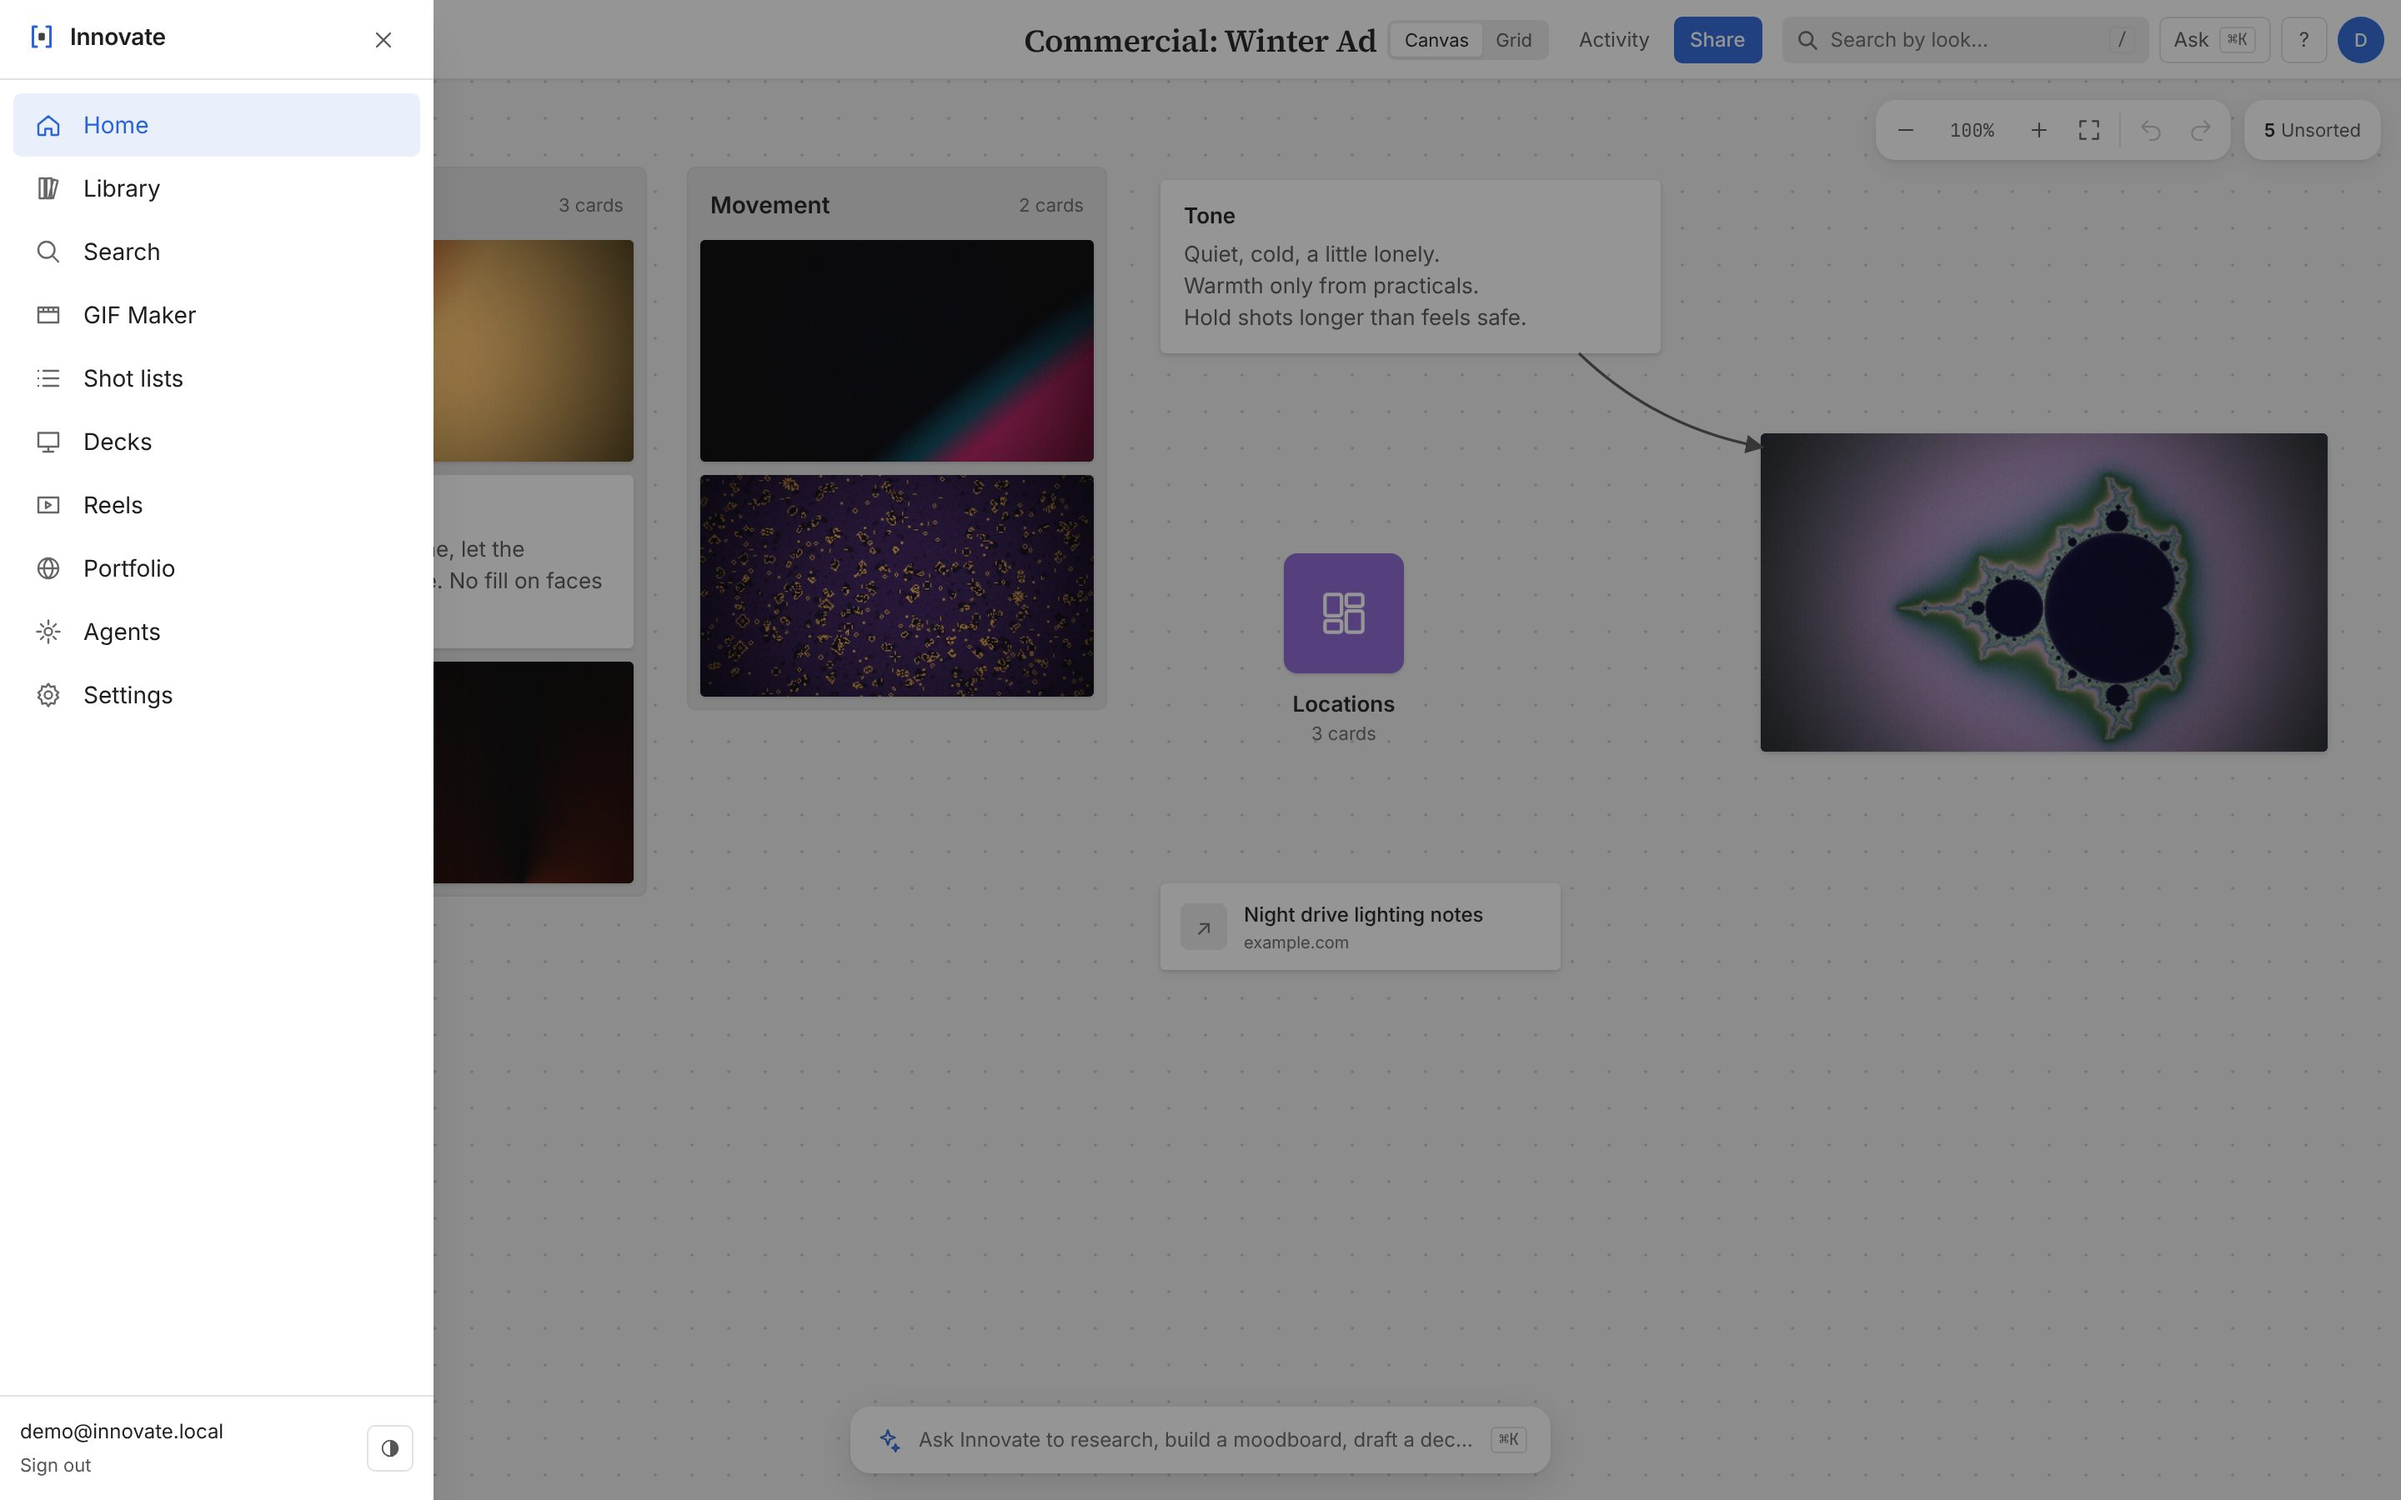
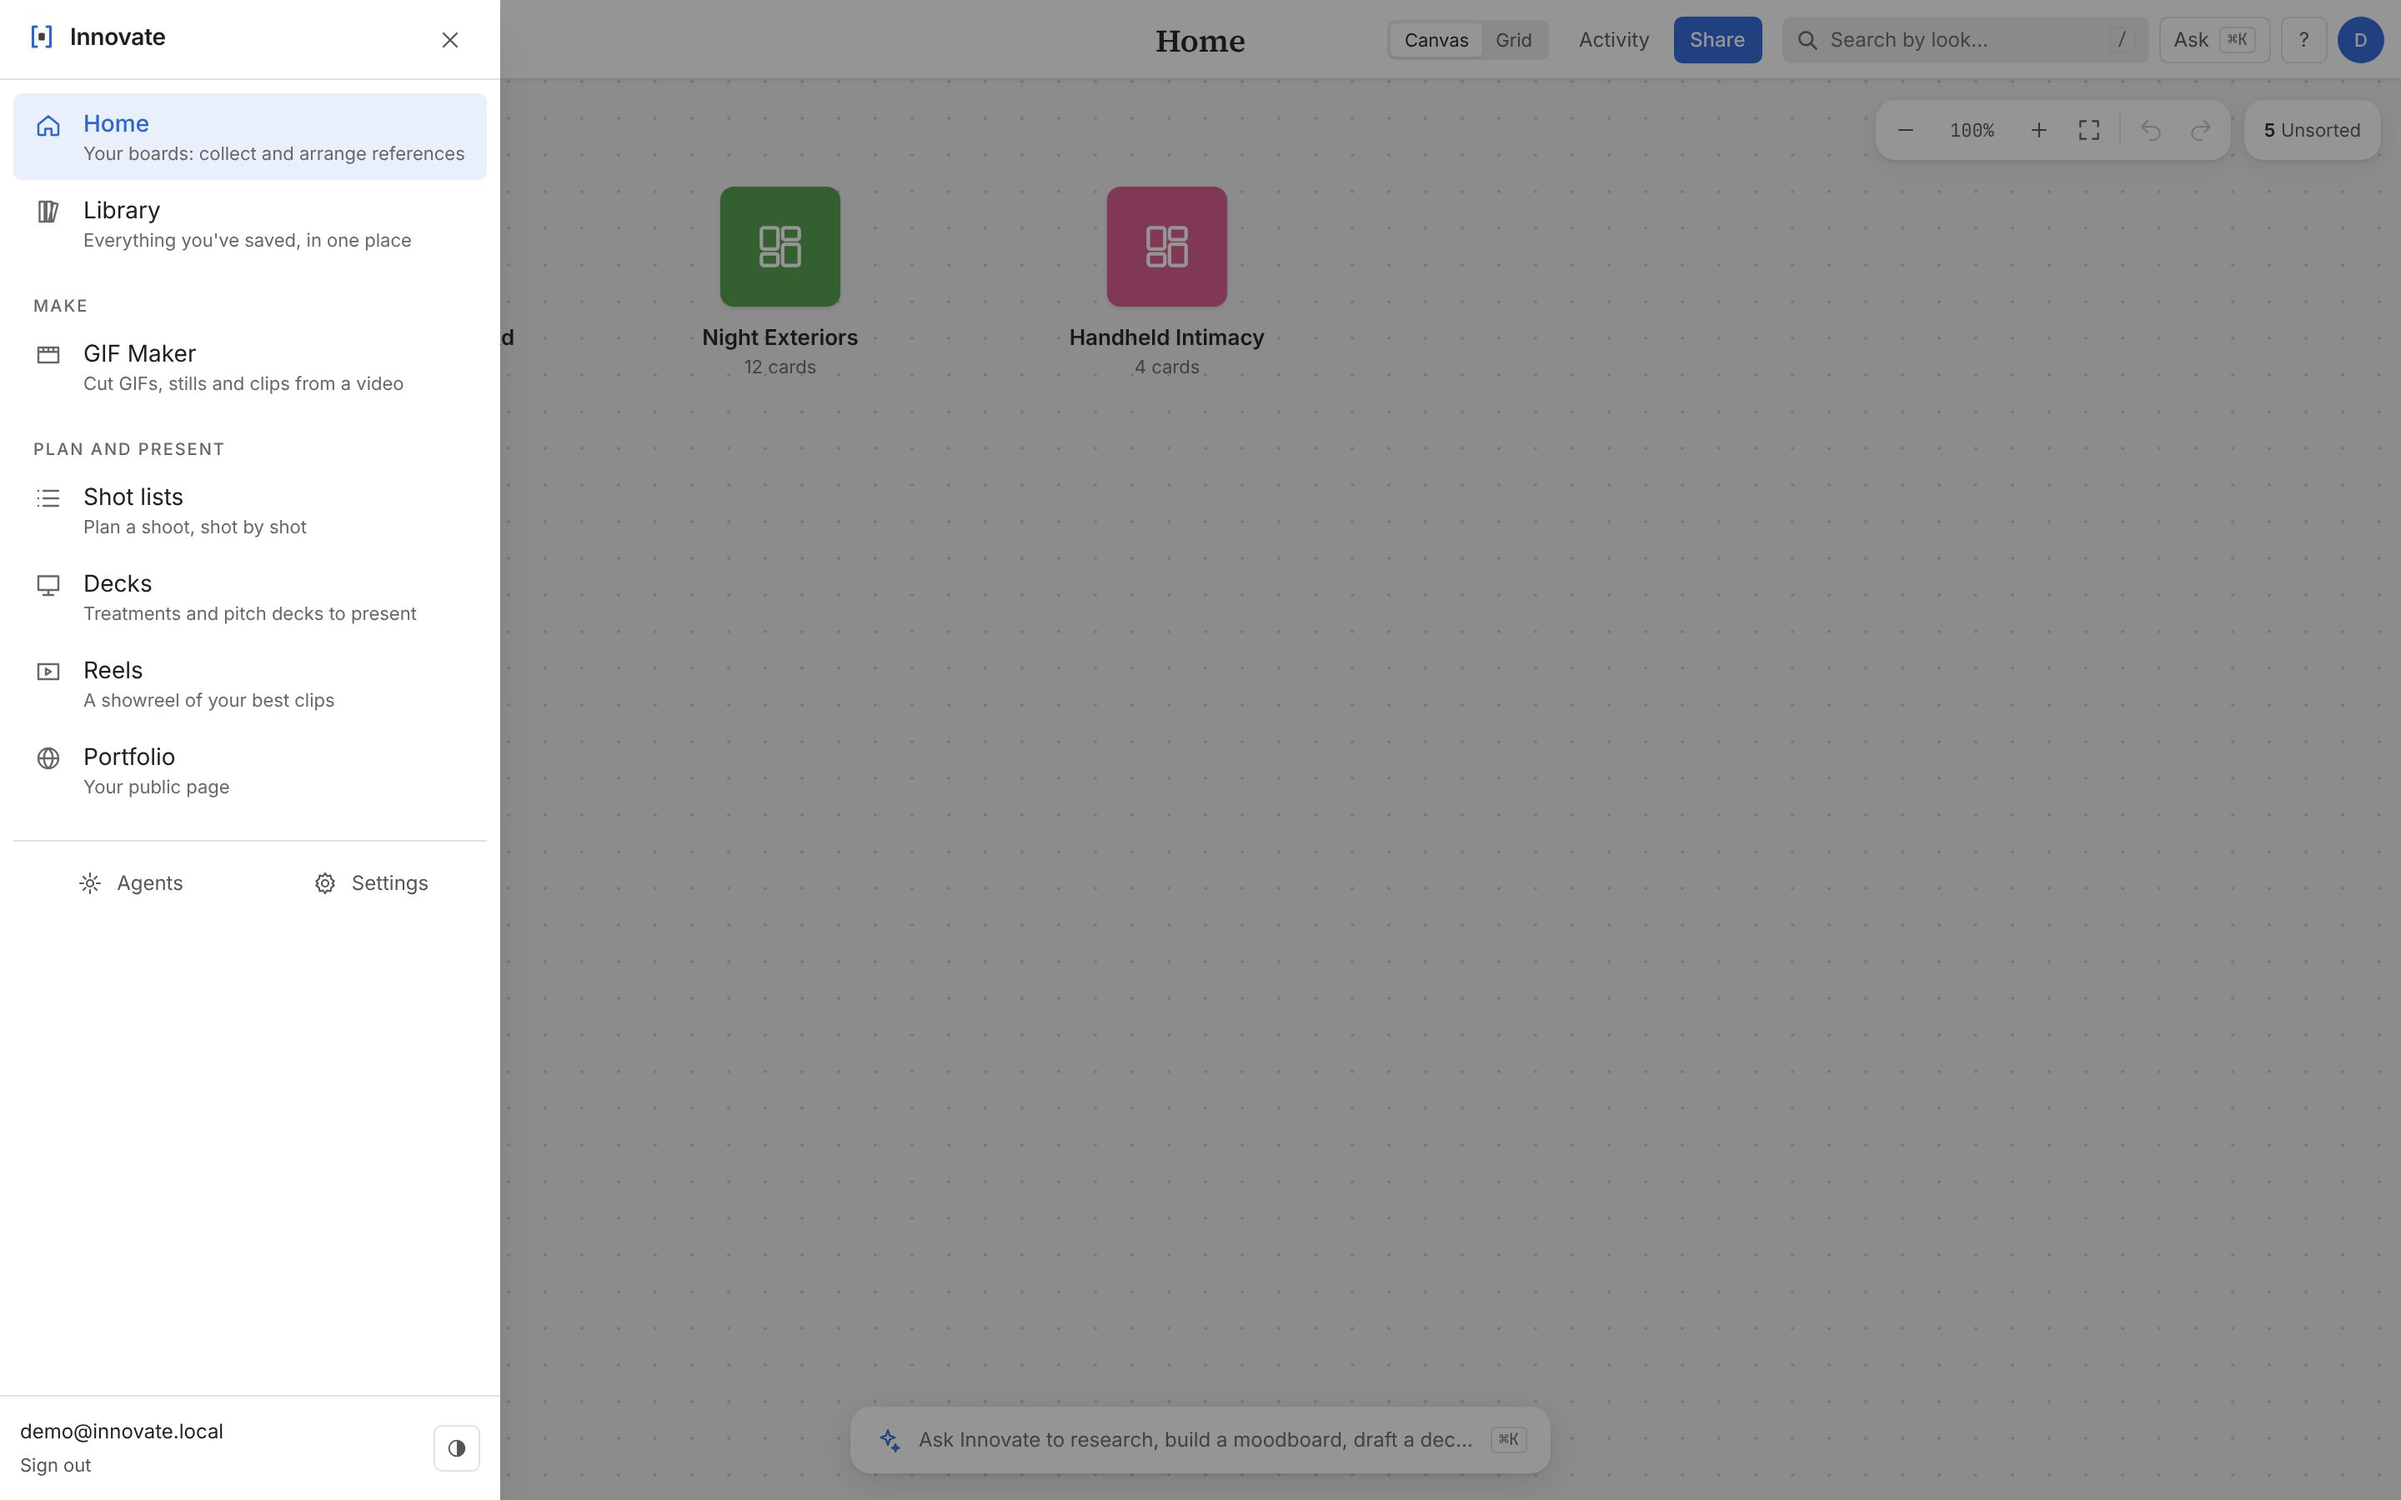
Innovate: explain each section in the menu
The menu drawer now groups sections by what they're for (your boards and
library; Make; Plan and present) and gives each a one-line description.
Search left the menu (it's in the top bar); Agents and Settings moved to a
small footer row.

Claude-Session: https://claude.ai/code/session_01D2mtqCz3z1ammiFNoeLEXk

diff --git a/innovate/apps/web/components/shell/AppShell.tsx b/innovate/apps/web/components/shell/AppShell.tsx
@@ -9,18 +9,33 @@ import { HeaderSearch } from "./HeaderSearch";
 import { ShortcutsButton } from "./ShortcutsOverlay";
 import { ThemeToggle } from "./ThemeToggle";
 
-const SECTIONS: { href: string; label: string; icon: string }[] = [
-  { href: "/", label: "Home", icon: "M4 11.5 12 5l8 6.5V19a1 1 0 0 1-1 1h-4.5v-5h-5v5H5a1 1 0 0 1-1-1z" },
-  { href: "/library", label: "Library", icon: "M5 4h4v16H5zM10.5 4h4v16h-4zM16 5l3.5.9-3.6 14-3.4-.9z" },
-  { href: "/search", label: "Search", icon: "M10.5 4a6.5 6.5 0 1 1 0 13 6.5 6.5 0 0 1 0-13zM15.5 15.5 20 20" },
-  { href: "/make", label: "GIF Maker", icon: "M4 6h16v12H4zM4 9.5h16M8 6v3.5M12 6v3.5M16 6v3.5" },
-  { href: "/shotlists", label: "Shot lists", icon: "M8 6h12M8 12h12M8 18h12M4 6h.01M4 12h.01M4 18h.01" },
-  { href: "/decks", label: "Decks", icon: "M4 5h16v11H4zM12 16v4M8 20h8" },
-  { href: "/reels", label: "Reels", icon: "M4 6h16v12H4zM10 9.5v5l4-2.5z" },
-  { href: "/portfolio", label: "Portfolio", icon: "M12 4a8 8 0 1 1 0 16 8 8 0 0 1 0-16zM4 12h16M12 4c2.5 2.2 3.5 5 3.5 8s-1 5.8-3.5 8c-2.5-2.2-3.5-5-3.5-8s1-5.8 3.5-8z" },
-  { href: "/agents", label: "Agents", icon: "M12 3v3M12 18v3M3 12h3M18 12h3M6 6l2 2M16 16l2 2M18 6l-2 2M8 16l-2 2M12 9a3 3 0 1 1 0 6 3 3 0 0 1 0-6z" },
-  { href: "/settings", label: "Settings", icon: "M12 9a3 3 0 1 1 0 6 3 3 0 0 1 0-6zM12 3l1.8 2.6 3.1-.6.6 3.1L20 10l-1.5 2 1.5 2-2.5 1.9-.6 3.1-3.1-.6L12 21l-1.8-2.6-3.1.6-.6-3.1L4 14l1.5-2L4 10l2.5-1.9.6-3.1 3.1.6z" },
+interface Section {
+  href: string;
+  label: string;
+  icon: string;
+  /** One line on what it's for, shown under the label in the menu. */
+  hint: string;
+  group: "home" | "make" | "present" | "more";
+}
+
+const SECTIONS: Section[] = [
+  { href: "/", label: "Home", hint: "Your boards: collect and arrange references", group: "home", icon: "M4 11.5 12 5l8 6.5V19a1 1 0 0 1-1 1h-4.5v-5h-5v5H5a1 1 0 0 1-1-1z" },
+  { href: "/library", label: "Library", hint: "Everything you've saved, in one place", group: "home", icon: "M5 4h4v16H5zM10.5 4h4v16h-4zM16 5l3.5.9-3.6 14-3.4-.9z" },
+  { href: "/make", label: "GIF Maker", hint: "Cut GIFs, stills and clips from a video", group: "make", icon: "M4 6h16v12H4zM4 9.5h16M8 6v3.5M12 6v3.5M16 6v3.5" },
+  { href: "/shotlists", label: "Shot lists", hint: "Plan a shoot, shot by shot", group: "present", icon: "M8 6h12M8 12h12M8 18h12M4 6h.01M4 12h.01M4 18h.01" },
+  { href: "/decks", label: "Decks", hint: "Treatments and pitch decks to present", group: "present", icon: "M4 5h16v11H4zM12 16v4M8 20h8" },
+  { href: "/reels", label: "Reels", hint: "A showreel of your best clips", group: "present", icon: "M4 6h16v12H4zM10 9.5v5l4-2.5z" },
+  { href: "/portfolio", label: "Portfolio", hint: "Your public page", group: "present", icon: "M12 4a8 8 0 1 1 0 16 8 8 0 0 1 0-16zM4 12h16M12 4c2.5 2.2 3.5 5 3.5 8s-1 5.8-3.5 8c-2.5-2.2-3.5-5-3.5-8s1-5.8 3.5-8z" },
+  { href: "/agents", label: "Agents", hint: "AI helpers (⌘K)", group: "more", icon: "M12 3v3M12 18v3M3 12h3M18 12h3M6 6l2 2M16 16l2 2M18 6l-2 2M8 16l-2 2M12 9a3 3 0 1 1 0 6 3 3 0 0 1 0-6z" },
+  { href: "/settings", label: "Settings", hint: "", group: "more", icon: "M12 9a3 3 0 1 1 0 6 3 3 0 0 1 0-6zM12 3l1.8 2.6 3.1-.6.6 3.1L20 10l-1.5 2 1.5 2-2.5 1.9-.6 3.1-3.1-.6L12 21l-1.8-2.6-3.1.6-.6-3.1L4 14l1.5-2L4 10l2.5-1.9.6-3.1 3.1.6z" },
 ];
+const GROUPS: { key: Section["group"]; title: string | null }[] = [
+  { key: "home", title: null },
+  { key: "make", title: "Make" },
+  { key: "present", title: "Plan and present" },
+];
+/** Pages reached from elsewhere (the top-bar search) still get a breadcrumb. */
+const CRUMB_ONLY = [{ href: "/search", label: "Search" }];
 
 const Icon = ({ d, size = 18 }: { d: string; size?: number }) => (
   <svg width={size} height={size} viewBox="0 0 24 24" fill="none" stroke="currentColor" strokeWidth="1.6" strokeLinecap="round" strokeLinejoin="round" aria-hidden="true">
@@ -28,9 +43,29 @@ const Icon = ({ d, size = 18 }: { d: string; size?: number }) => (
   </svg>
 );
 
+function NavItem({ s, path, onNavigate }: { s: Section; path: string; onNavigate(): void }) {
+  const active = s.href === "/" ? path === "/" || path.startsWith("/boards") : path === s.href || path.startsWith(`${s.href}/`);
+  return (
+    <Link
+      href={s.href}
+      onClick={onNavigate}
+      aria-current={active ? "page" : undefined}
+      className={`flex items-start gap-3 rounded-md px-3 py-2 ${active ? "bg-accent-soft" : "hover:bg-surface-3"}`}
+    >
+      <span className={`mt-0.5 ${active ? "text-accent" : "text-text-faint"}`}>
+        <Icon d={s.icon} />
+      </span>
+      <span className="min-w-0">
+        <span className={`block text-md leading-5 ${active ? "font-medium text-accent" : "text-text"}`}>{s.label}</span>
+        <span className="block text-xs leading-4 text-text-faint">{s.hint}</span>
+      </span>
+    </Link>
+  );
+}
+
 function sectionFor(path: string) {
   if (path === "/" || path.startsWith("/boards")) return null; // boards render their own breadcrumbs
-  return SECTIONS.filter((s) => s.href !== "/").find((s) => path === s.href || path.startsWith(`${s.href}/`)) ?? null;
+  return [...SECTIONS, ...CRUMB_ONLY].filter((s) => s.href !== "/").find((s) => path === s.href || path.startsWith(`${s.href}/`)) ?? null;
 }
 
 /**
@@ -64,7 +99,7 @@ export function AppShell({
           </Dialog.Trigger>
           <Dialog.Portal>
             <Dialog.Overlay className="fixed inset-0 z-40 bg-scrim" />
-            <Dialog.Content aria-describedby={undefined} className="fixed inset-y-0 left-0 z-50 flex w-[260px] flex-col bg-surface shadow-xl focus:outline-none" data-testid="nav-drawer">
+            <Dialog.Content aria-describedby={undefined} className="fixed inset-y-0 left-0 z-50 flex w-[300px] flex-col bg-surface shadow-xl focus:outline-none" data-testid="nav-drawer">
               <div className="flex h-12 items-center justify-between border-b border-border px-4">
                 <Dialog.Title className="text-text">
                   <Logo />
@@ -74,23 +109,32 @@ export function AppShell({
                 </Dialog.Close>
               </div>
               <nav aria-label="Main" className="flex-1 overflow-y-auto p-2">
-                {SECTIONS.map((s) => {
-                  const active = s.href === "/" ? path === "/" || path.startsWith("/boards") : path === s.href || path.startsWith(`${s.href}/`);
-                  return (
-                    <Link
-                      key={s.href}
-                      href={s.href}
-                      onClick={() => setOpen(false)}
-                      aria-current={active ? "page" : undefined}
-                      className={`flex items-center gap-3 rounded-md px-3 py-2 text-md ${active ? "bg-accent-soft text-accent" : "text-text hover:bg-surface-3"}`}
-                    >
-                      <span className={active ? "text-accent" : "text-text-faint"}>
-                        <Icon d={s.icon} />
-                      </span>
-                      {s.label}
-                    </Link>
-                  );
-                })}
+                {GROUPS.map((g) => (
+                  <div key={g.key} className={g.title ? "mt-4" : ""}>
+                    {g.title && <div className="px-3 pb-1 text-2xs font-medium tracking-[0.1em] text-text-faint uppercase">{g.title}</div>}
+                    {SECTIONS.filter((s) => s.group === g.key).map((s) => (
+                      <NavItem key={s.href} s={s} path={path} onNavigate={() => setOpen(false)} />
+                    ))}
+                  </div>
+                ))}
+                <div className="mt-4 flex gap-1 border-t border-border pt-2">
+                  {SECTIONS.filter((s) => s.group === "more").map((s) => {
+                    const active = path === s.href || path.startsWith(`${s.href}/`);
+                    return (
+                      <Link
+                        key={s.href}
+                        href={s.href}
+                        onClick={() => setOpen(false)}
+                        aria-current={active ? "page" : undefined}
+                        title={s.hint || undefined}
+                        className={`flex flex-1 items-center justify-center gap-2 rounded-md px-2 py-2 text-sm ${active ? "bg-accent-soft text-accent" : "text-text-muted hover:bg-surface-3 hover:text-text"}`}
+                      >
+                        <Icon d={s.icon} size={16} />
+                        {s.label}
+                      </Link>
+                    );
+                  })}
+                </div>
               </nav>
               <div className="flex items-center justify-between gap-2 border-t border-border p-3">
                 <div className="min-w-0">
